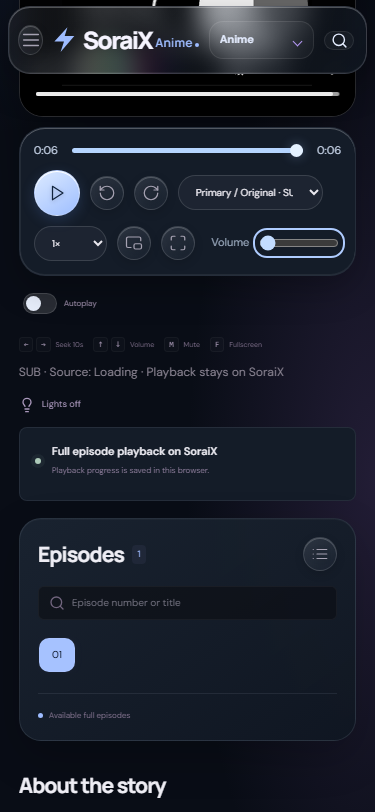
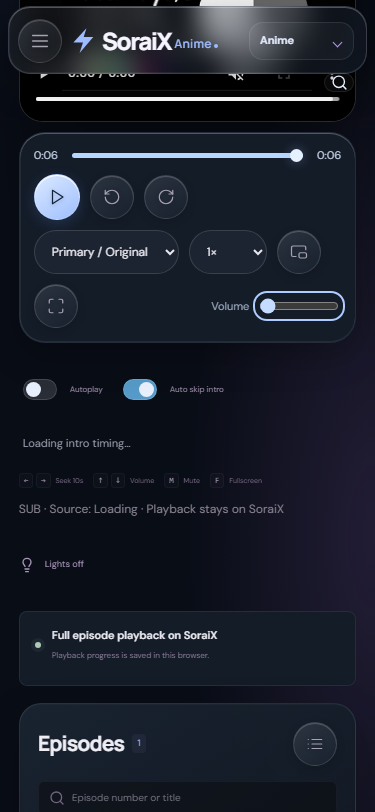
update css

diff --git a/src/themes.css b/src/themes.css
@@ -645,3 +645,39 @@
 :root .watch-player-session:is(:fullscreen, :-webkit-full-screen, .player-expanded) .external-player-shell { position: absolute; inset: 0; width: 100%; height: 100%; }
 :root .watch-player-session:is(:fullscreen, :-webkit-full-screen, .player-expanded) .external-player-shell iframe { position: absolute; inset: 0; display: block; width: 100%; height: 100%; aspect-ratio: auto !important; border: 0; }
 :root .watch-player-session:is(:fullscreen, :-webkit-full-screen, .player-expanded) .external-fullscreen-button { display: none; }
+
+/* Comfortable targets and breathing room across navigation and playback. */
+:root .icon-button { min-width: 44px; min-height: 44px; flex-shrink: 0; }
+:root .icon-button svg { flex-shrink: 0; }
+:root :is(.header-tools, .section-actions, .audio-options) { gap: 10px; }
+:root :is(.desktop-nav, .universe-header nav) { gap: 8px; }
+:root :is(.desktop-nav, .universe-header nav) a {
+  display: inline-flex; align-items: center; justify-content: center;
+  min-height: 44px; padding: 10px 14px; gap: 8px; font-size: 12px; line-height: 1.4;
+  white-space: nowrap; flex-shrink: 0;
+}
+:root .subnav { height: auto; min-height: 52px; }
+:root .subnav nav { gap: 16px; }
+:root .subnav nav a { display: inline-flex; align-items: center; min-height: 44px; padding: 8px 4px; white-space: nowrap; font-size: 12px; }
+:root :is(.hosted-controls, .reader-toolbar) { gap: 12px; }
+:root :is(.hosted-controls, .reader-toolbar, .stream-toolbar) select { min-height: 44px; padding: 10px 14px; font-size: 12px; }
+:root .audio-options { flex-wrap: wrap; }
+:root .audio-options button { min-height: 44px; padding: 10px 16px; line-height: 1.4; }
+:root .player-options { flex-wrap: wrap; gap: 12px 20px; padding-block: 10px; }
+:root .player-options :is(label, button) { min-height: 44px; display: inline-flex; align-items: center; gap: 10px; line-height: 1.5; }
+:root .episode-navigation { flex-wrap: wrap; gap: 12px; }
+:root .episode-navigation .button { min-height: 44px; padding: 10px 16px; }
+:root :is(a, button, select):focus-visible { outline: 2px solid var(--accent, #a8c8ff); outline-offset: 3px; }
+@media (max-width: 600px) {
+  :root .universe-header nav { justify-content: flex-start; flex-wrap: wrap; gap: 6px; }
+  :root .universe-header nav a { padding: 10px 12px; font-size: 12px; }
+  :root .subnav { overflow-x: auto; justify-content: flex-start; gap: 20px; }
+  :root .subnav nav { gap: 14px; flex-shrink: 0; }
+  :root .hosted-controls { gap: 12px; padding: 14px; margin-inline: 0; }
+  :root .player-options { gap: 8px 16px; }
+}
+@media (min-width: 901px) and (max-width: 1200px) {
+  :root .header-inner { flex-wrap: wrap; gap: 12px 20px; }
+  :root .desktop-nav { order: 5; flex-basis: 100%; justify-content: center; }
+  :root .header-search { flex: 1; min-width: 120px; }
+}
